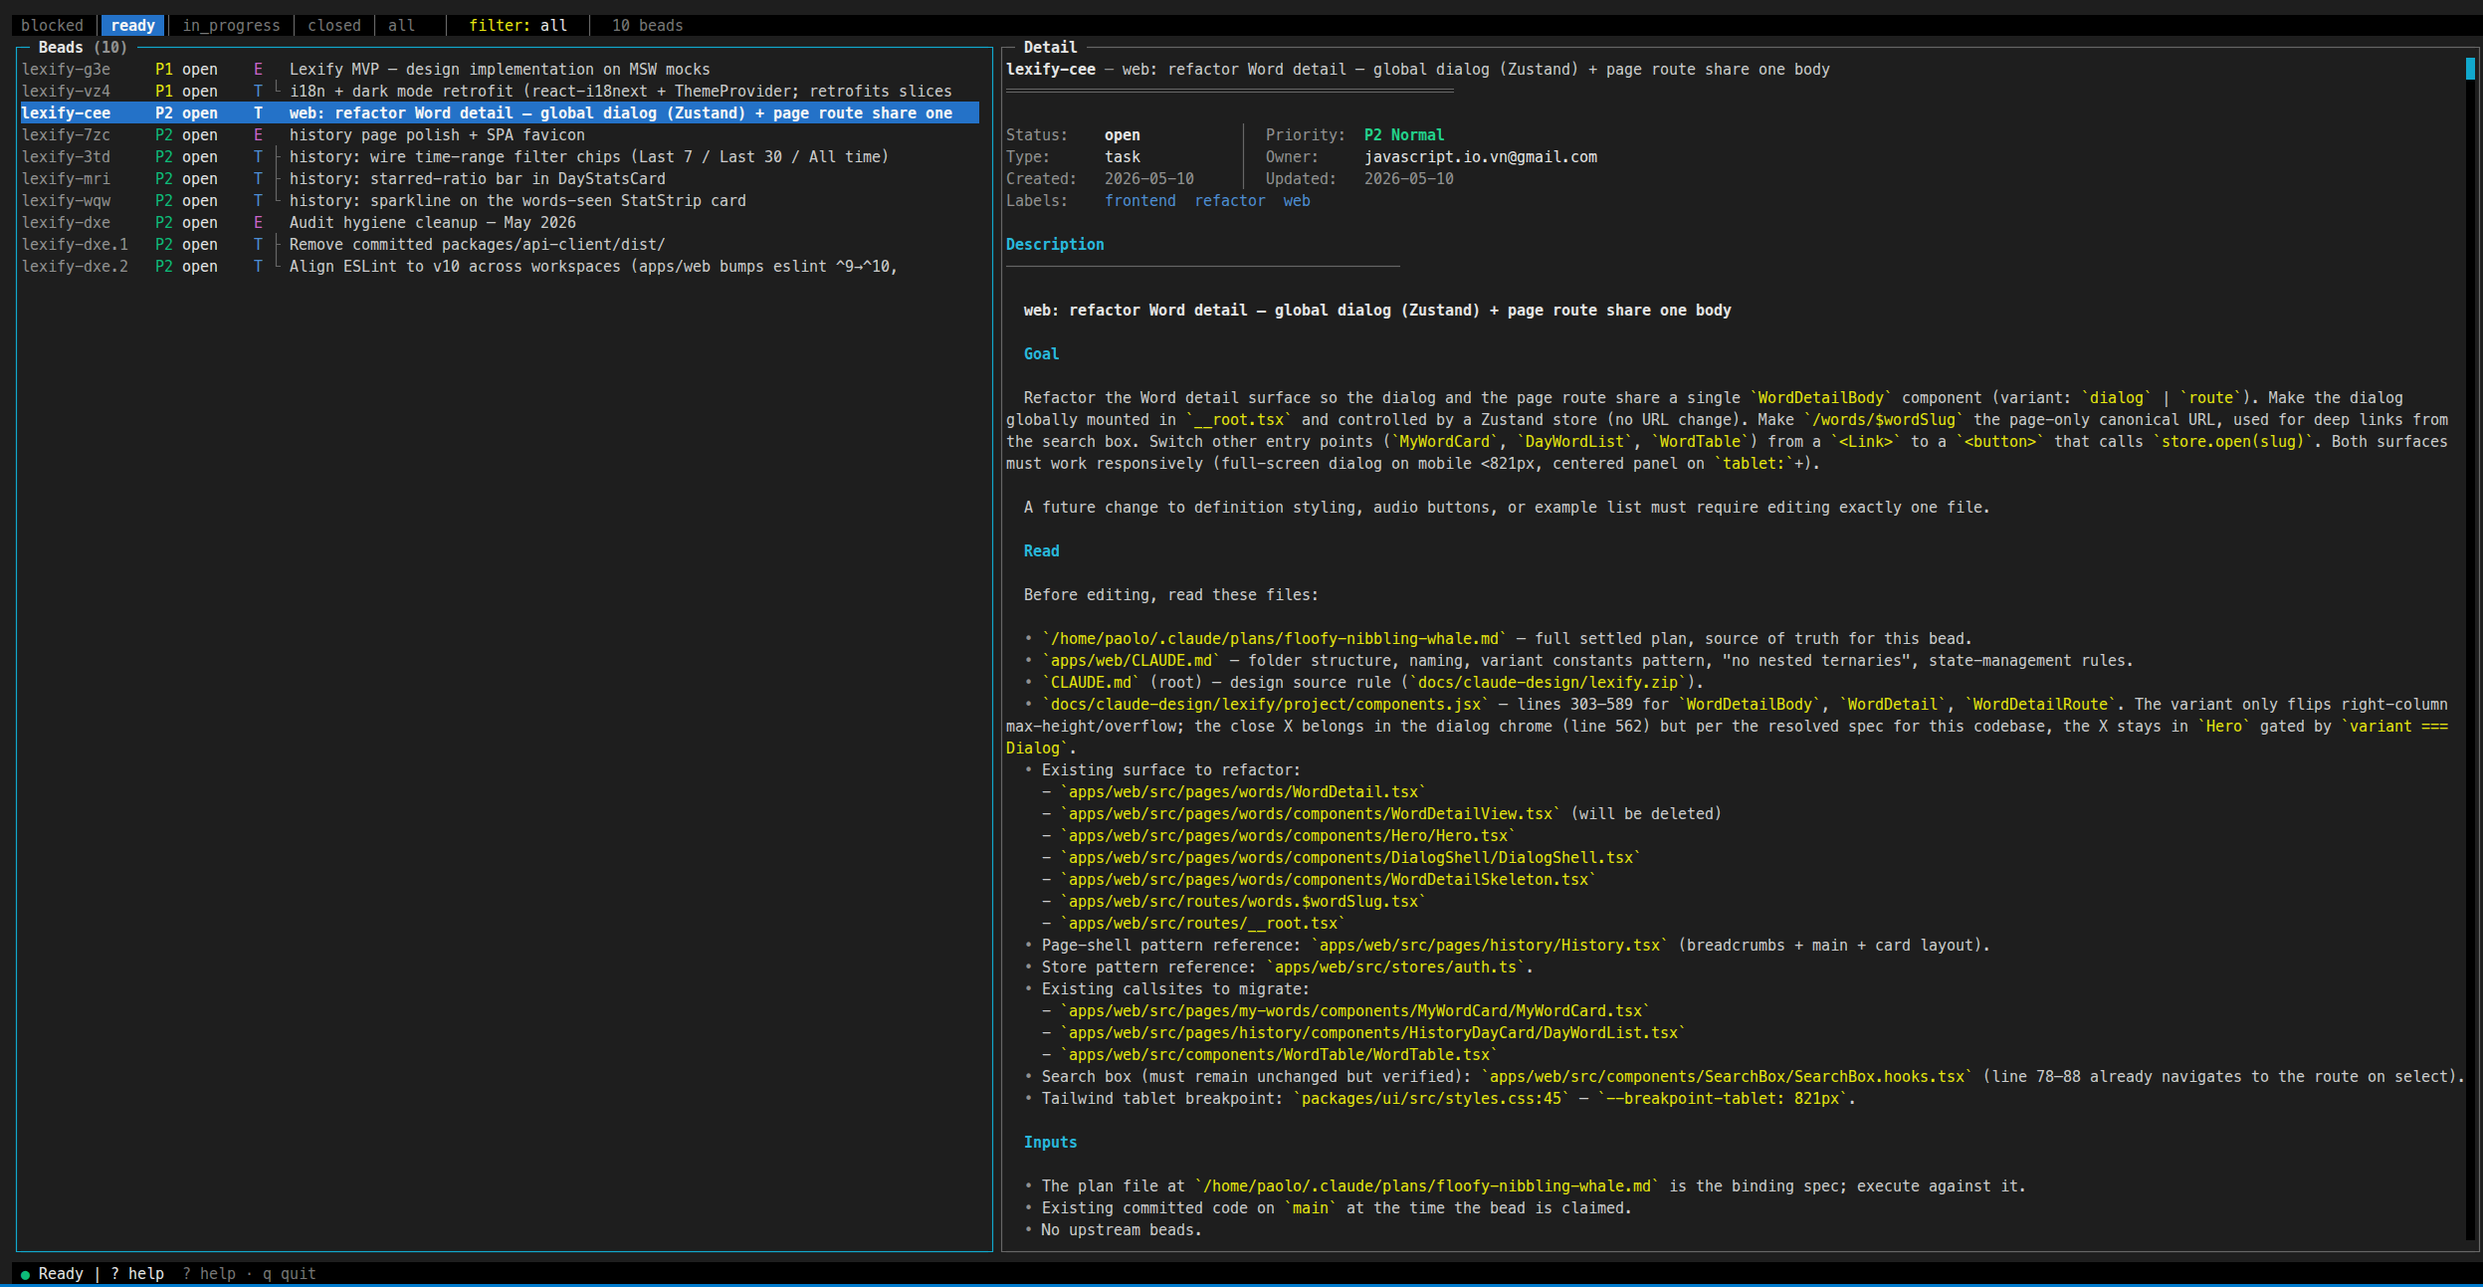
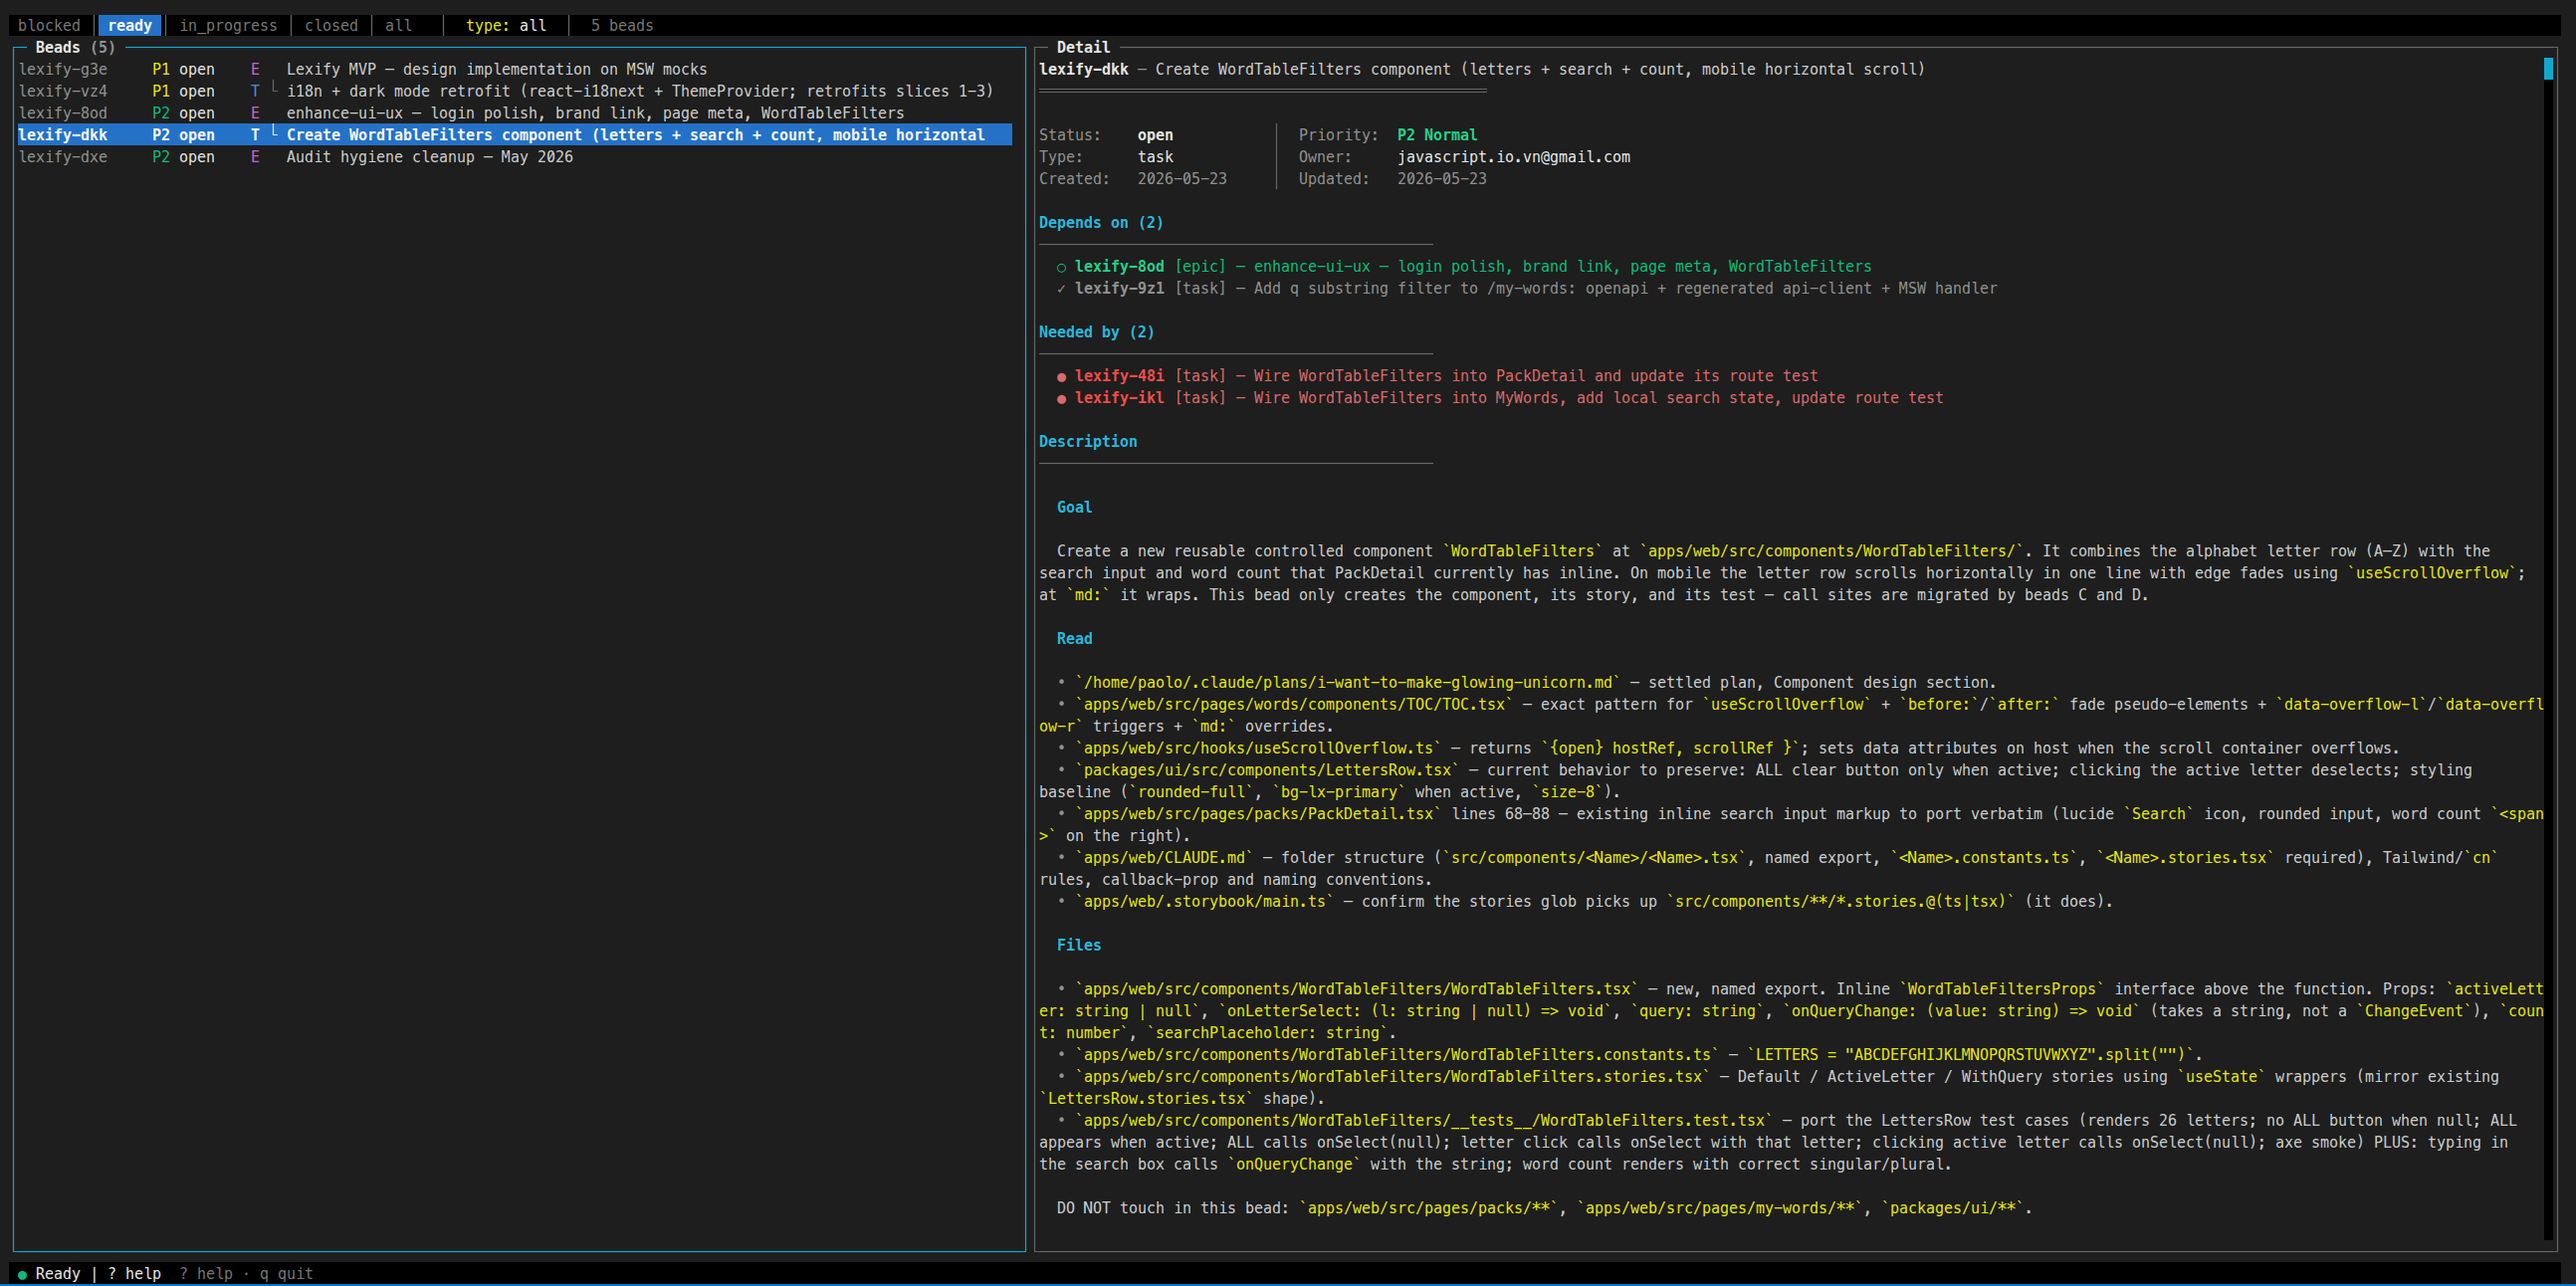
chore: bump version to 0.3.2, update changelog

Changed region(s): [[0.0, 0.0, 1.0, 1.0], [0.4012, 0.031, 0.7407, 0.0619], [0.0, 0.9598, 0.1543, 1.0]]

diff --git a/src/views/detail.js b/src/views/detail.js
@@ -5,6 +5,22 @@ const STATUS_COLOR = {
   open: 'white', in_progress: 'cyan', blocked: 'red',
   deferred: 'yellow', closed: 'gray',
 };
+
+// Dep-row palette: tuned for at-a-glance scanning in the dependency list.
+//   open / ready → green   (go)
+//   in_progress  → yellow  (active)
+//   blocked      → red     (stop)
+//   deferred     → gray    (parked)
+//   closed       → gray    (done, recede)
+const DEP_STATUS_COLOR = {
+  open: 'green', in_progress: 'yellow', blocked: 'red',
+  deferred: 'gray', closed: 'gray',
+};
+
+const STATUS_ICON = {
+  open: '○', in_progress: '◐', blocked: '●',
+  closed: '✓', deferred: '❄',
+};
 const PRIORITY_COLOR  = ['red', 'yellow', 'green', 'cyan', 'gray'];
 const PRIORITY_LABEL  = ['Critical', 'High', 'Normal', 'Low', 'Trivial'];
 
@@ -30,11 +46,26 @@ function sectionHeader(title) {
   return `\n${bold(t('cyan', title))}\n${t('gray', '─'.repeat(44))}`;
 }
 
-function depLine(dep, arrow, color) {
-  const id    = esc(dep.id || String(dep));
-  const type  = esc(dep.dep_type || dep.type || 'blocks');
-  const title = dep.title ? ` ${t('gray', '— ' + esc(dep.title))}` : '';
-  return `  ${t(color, arrow)} {bold}${id}{/bold} ${t('gray', `[${type}]`)}${title}`;
+function depLine(dep) {
+  const rawId    = esc(dep.id || String(dep));
+  const rawTitle = dep.title ? esc(dep.title) : '';
+  const issueType = dep.issue_type ? esc(dep.issue_type) : null;
+
+  // Effective status mirrors how `bd blocked` derives the Blocked tab:
+  // an open bead whose blockers aren't all closed reads as "blocked",
+  // not "open". `bd dep list` only returns the raw stored status.
+  const effectiveStatus = (dep.status === 'open' && state.blockedIds.has(dep.id))
+    ? 'blocked'
+    : dep.status;
+
+  const statusColor = DEP_STATUS_COLOR[effectiveStatus] || 'white';
+  const icon      = STATUS_ICON[effectiveStatus] || ' ';
+  const idText    = `{bold}${rawId}{/bold}`;
+  const typeTag   = issueType ? ` [${issueType}]` : '';
+  const titleText = rawTitle ? ` — ${rawTitle}` : '';
+
+  const row = `${icon} ${idText}${typeTag}${titleText}`;
+  return `  {${statusColor}-fg}${row}{/${statusColor}-fg}`;
 }
 
 // Apply inline markdown styling to already-escaped text. Order matters:
@@ -153,11 +184,11 @@ export function renderDetail(box) {
   // ── Dependencies ───────────────────────────────────────────────────────────
   if (b.depsDown?.length > 0) {
     lines.push(sectionHeader(`Depends on (${b.depsDown.length})`));
-    for (const d of b.depsDown) lines.push(depLine(d, '→', 'yellow'));
+    for (const d of b.depsDown) lines.push(depLine(d));
   }
   if (b.depsUp?.length > 0) {
     lines.push(sectionHeader(`Needed by (${b.depsUp.length})`));
-    for (const d of b.depsUp) lines.push(depLine(d, '←', 'green'));
+    for (const d of b.depsUp) lines.push(depLine(d));
   }
 
   // ── Description ────────────────────────────────────────────────────────────

diff --git a/src/state.js b/src/state.js
@@ -9,6 +9,7 @@ export const state = {
   filter: 'ready',
   typeFilter: 'all',   // 'all' | 'epic' | 'task'
   epicFilter: null,    // null or epic bead id — when set, list is scoped to that epic + its children
+  blockedIds: new Set(), // ids that appear in `bd blocked` — derived state, not raw status
   cwd: process.cwd(),
 };
 
@@ -76,7 +77,11 @@ function buildTreeOrder(beads, parentOf) {
 }
 
 export async function loadList() {
-  const beads = await bdList(state.filter, state.cwd);
+  const [beads, blocked] = await Promise.all([
+    bdList(state.filter, state.cwd),
+    bdList('blocked', state.cwd).catch(() => []),
+  ]);
+  state.blockedIds = new Set((blocked || []).map((b) => b.id));
   const byId = new Map(beads.map((b) => [b.id, b]));
 
   // Build parent-child map from real bd deps (dependency_type === 'parent-child').

diff --git a/CHANGELOG.md b/CHANGELOG.md
@@ -2,6 +2,12 @@
 
 All notable changes to this project will be documented in this file.
 
+## [0.3.2] - 2026-05-24
+
+### Changed
+
+- Detail-pane dependency rows redesigned: status-colored icons (○ open, ◐ in_progress, ● blocked, ✓ closed, ❄ deferred) with the whole row tinted by effective status. Open beads whose blockers aren't all closed now render as blocked, mirroring how `bd blocked` derives the Blocked tab.
+
 ## [0.3.1] - 2026-05-16
 
 ### Added
